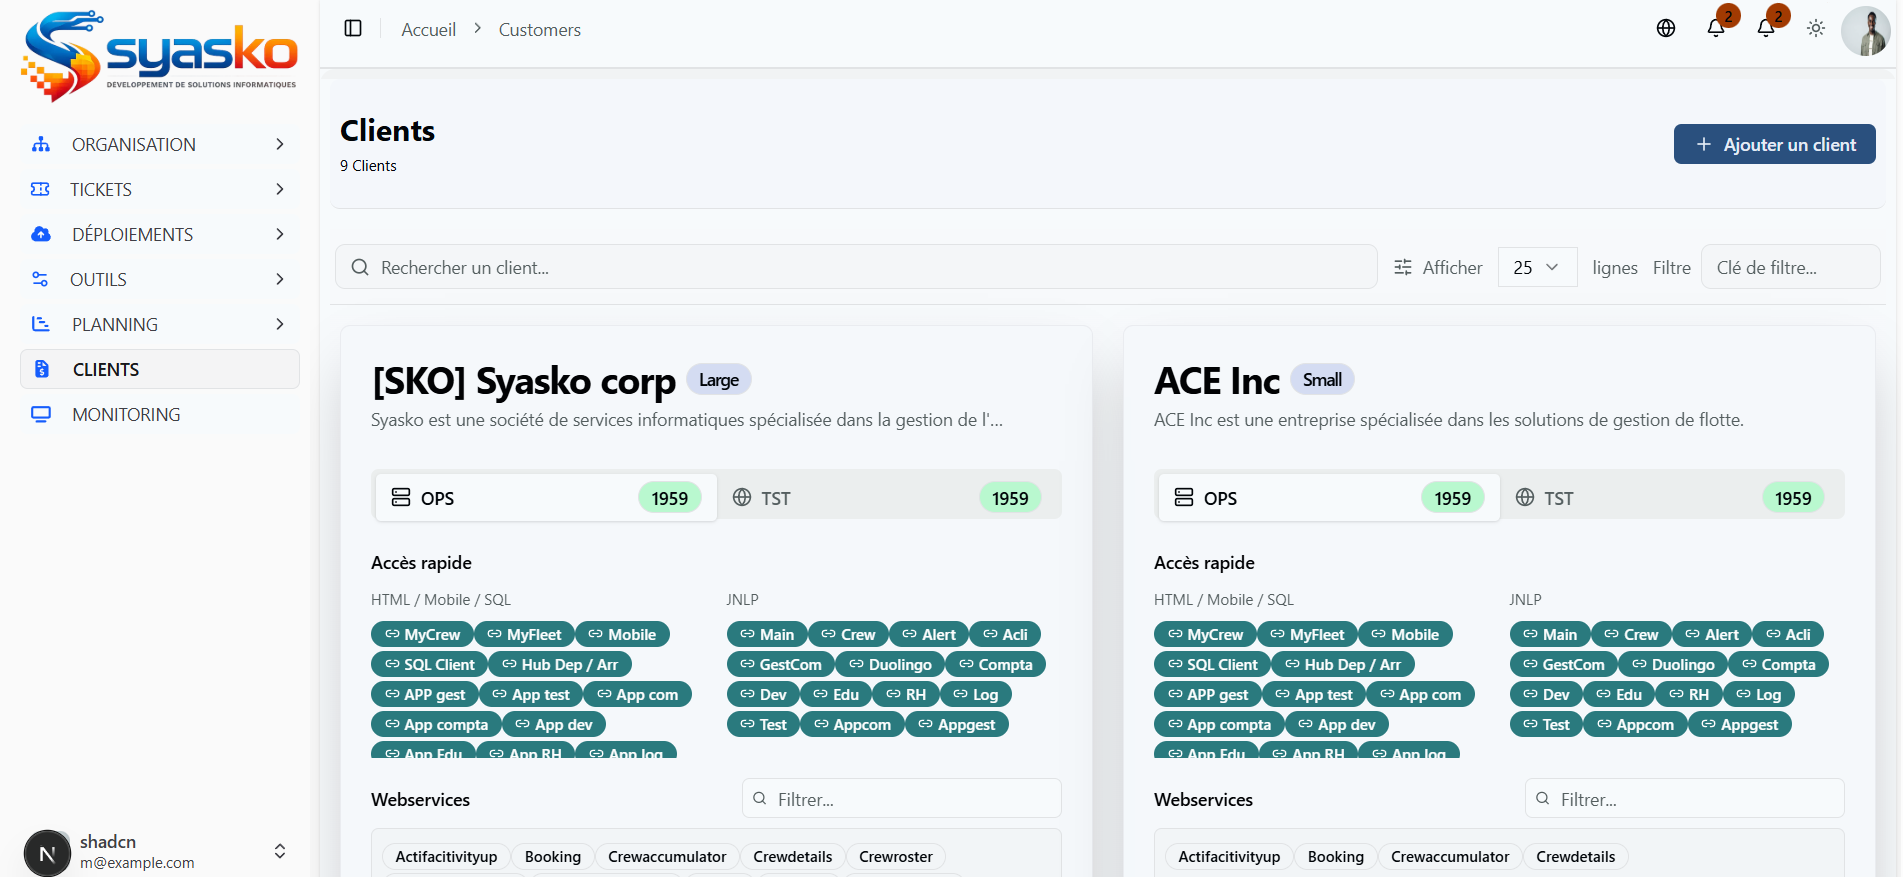
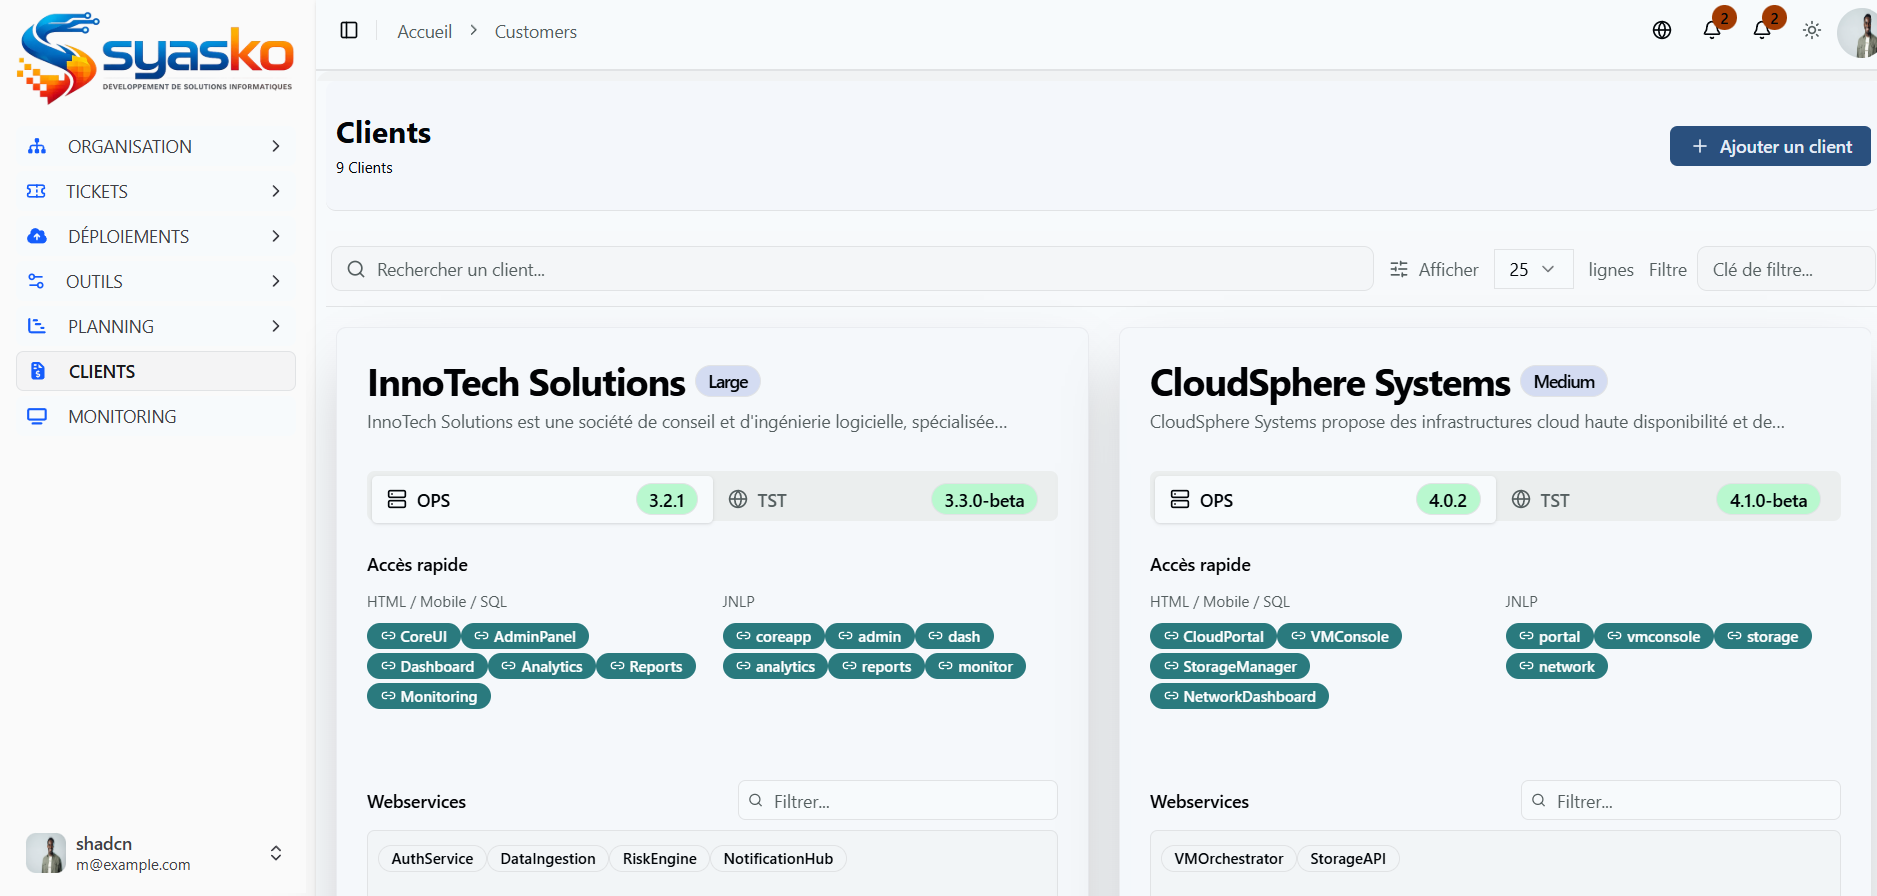
project pictures updating

diff --git a/src/components/db/data/project.ts b/src/components/db/data/project.ts
@@ -40,7 +40,7 @@ export const projects: Projectdata[] = [
     title: "titleTicket",
     description: "descriptionTicket",
     longDescription:"longDescriptionTicket",
-    images: ["/images/projects/project2/ticketing-presentation.png","/images/projects/project2/portfolio2.png","/images/projects/project2/ticketing-create-ticket.png","/images/projects/project2/ticketing-customer.png","/images/projects/project2/ticketing-inbox.png","/images/projects/project2/ticketing-notifications.png","/images/projects/project2/ticketing-team.png"], // pour le slider
+    images: ["/images/projects/project2/ticketing-presentation.png","/images/projects/project2/ticketing-notifications.png","/images/projects/project2/ticketing-monitoring.png","/images/projects/project2/ticketing-support.png","/images/projects/project2/ticketing-inbox.png","/images/projects/project2/ticketing-customer.png","/images/projects/project2/ticketing-create-ticket.png","/images/projects/project2/ticketing-team.png","/images/projects/project2/ticketing-user-ticket.png"], // pour le slider
     technologies: ["Next.js", "Tailwind CSS", "TypeScript", "next-intl", "Shadcn/ui", "Spring-boot","React","RTK-query","Hibernate","Postgresql","Zod","React-hook-form", "Git"],
     link: "https://syasko-tickecting.vercel.app",
     github: "https://github.com/simplicekolomou/syasko-tickecting-front",
